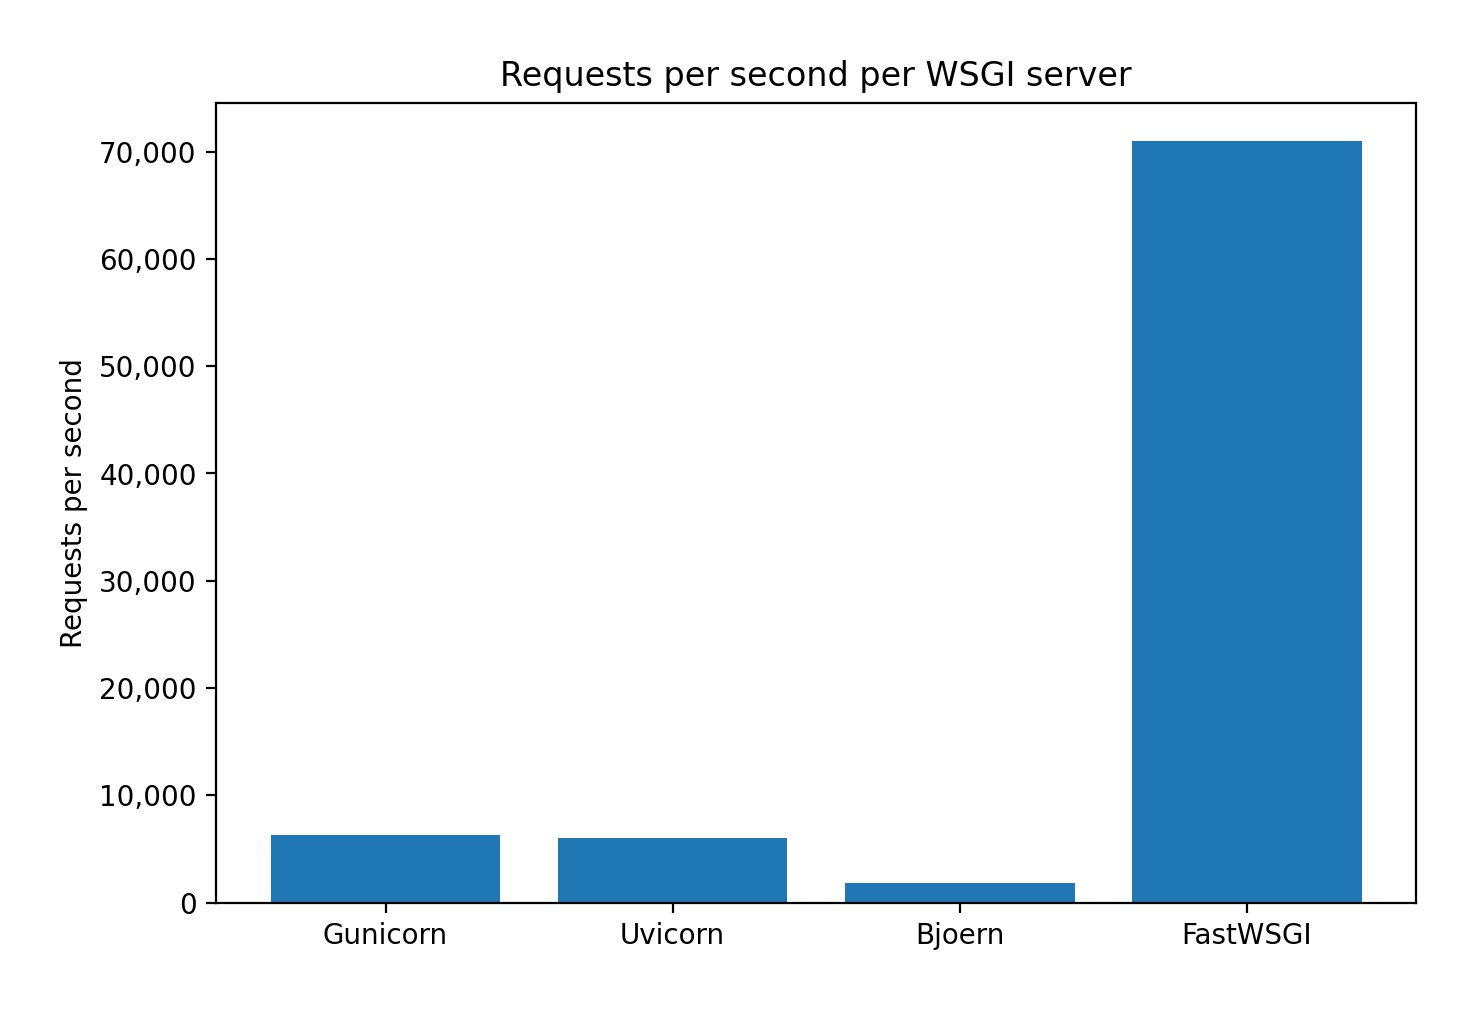
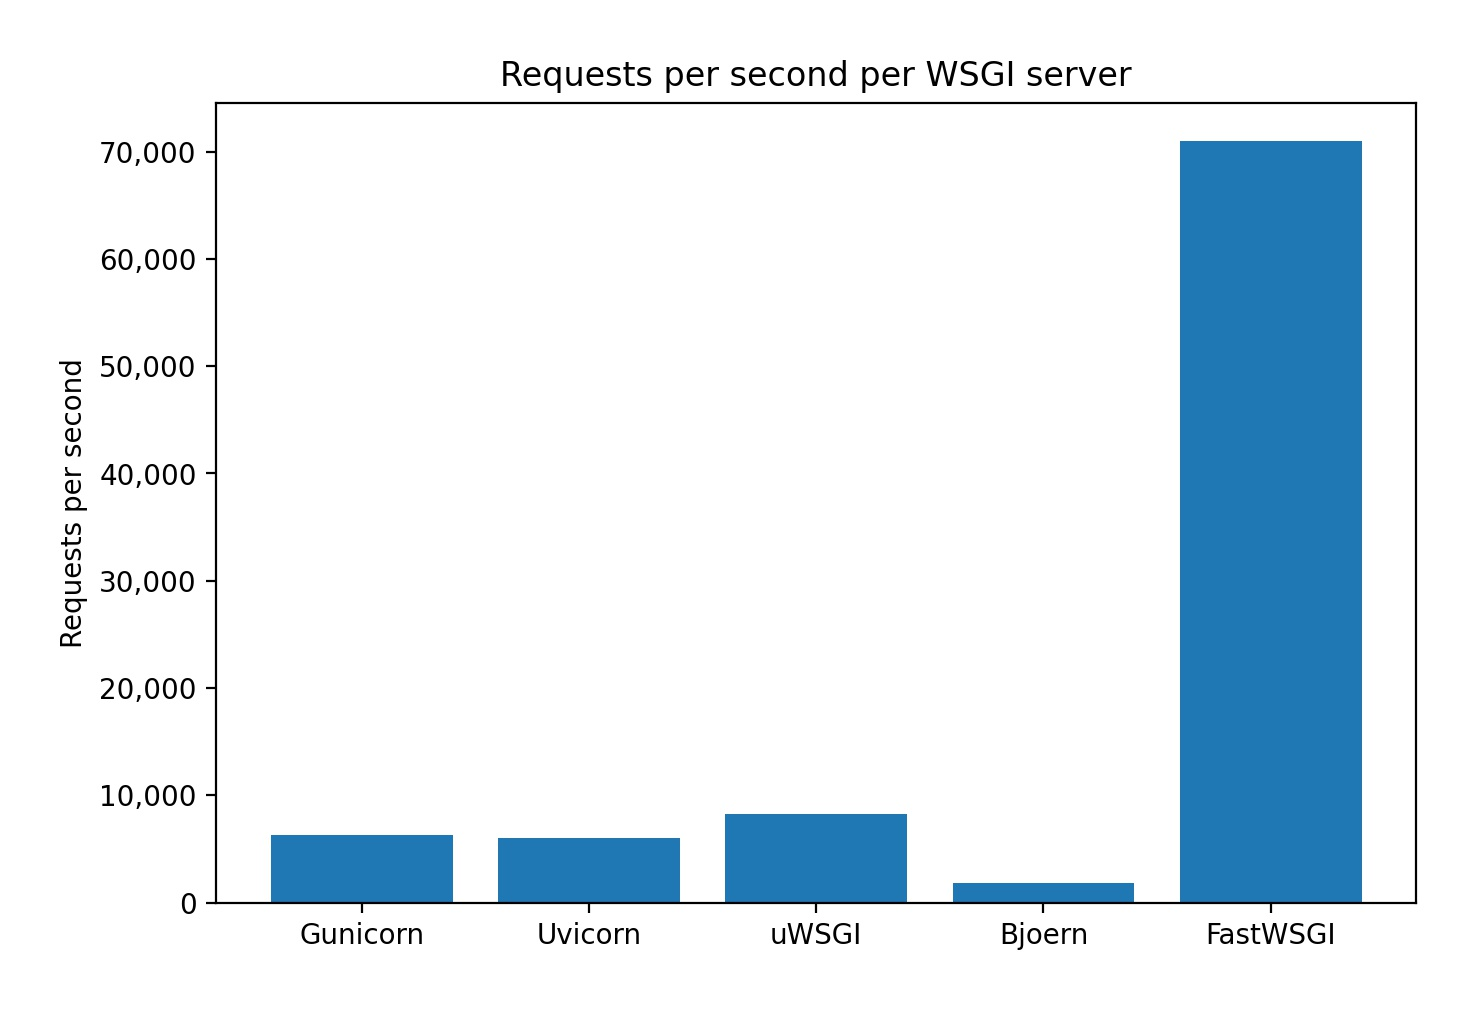
Add uWSGI to benchmarks

diff --git a/performance_benchmarks/generate_figures.py b/performance_benchmarks/generate_figures.py
@@ -28,7 +28,7 @@ def requests_served_graph(save_name, data):
     labels = [dp[0] for dp in data]
     rs = [dp[1] for dp in data]
     ax.set_ylabel("Requests served")
-    ax.set_title("Requests serverd in 60 seconds")
+    ax.set_title("Requests served in 60 seconds")
     ax.yaxis.set_major_formatter(FuncFormatter(y_fmt))
     ax.bar(labels, rs)
     plt.savefig(f"graphs/{save_name}", bbox_inches="tight", pad_inches=0.3, dpi=200)
@@ -51,6 +51,7 @@ flask_benchmarks = {
     "CherryPy": "results/cherrypy_results.txt",
     "Flask": "results/basic_flask_results.txt",
     "Flask+\nGunicorn": "results/gunicorn_flask_results.txt",
+    "Flask+\nuWSGI": "results/uwsgi_flask_results.txt",
     "Flask+\nBjoern": "results/bjoern_flask_results.txt",
     "Flask+\nFastWSGI": "results/fastwsgi_flask_results.txt",
 }
@@ -58,6 +59,7 @@ flask_benchmarks = {
 wsgi_benchmarks = {
     "Gunicorn": "results/gunicorn_wsgi_results.txt",
     "Uvicorn": "results/uvicorn_asgi_results.txt",
+    "uWSGI": "results/basic_uwsgi_results.txt",
     "Bjoern": "results/bjoern_wsgi_results.txt",
     "FastWSGI": "results/fastwsgi_wsgi_results.txt",
 }

diff --git a/performance_benchmarks/servers/basic_uwsgi.py b/performance_benchmarks/servers/basic_uwsgi.py
@@ -1,0 +1,3 @@
+def application(env, start_response):
+    start_response("200 OK", [("Content-Type", "text/html")])
+    return [b"Hello World"]
